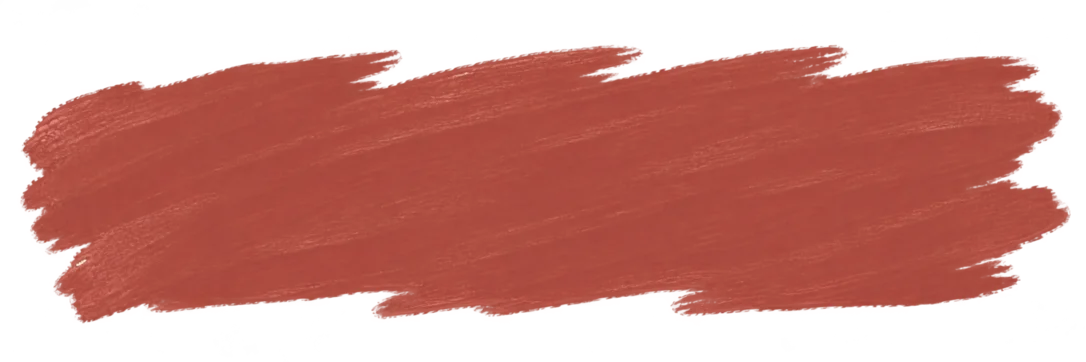
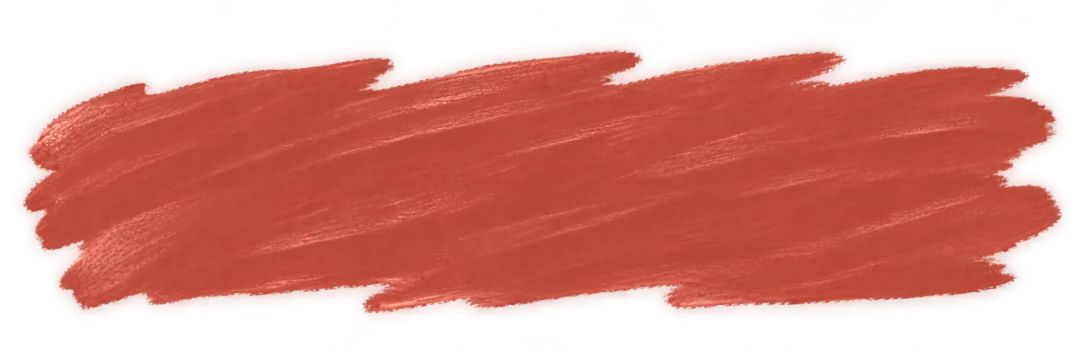
Position error message between the two nodes

diff --git a/src/components/puzzles/eulerianPath.tsx b/src/components/puzzles/eulerianPath.tsx
@@ -1,4 +1,5 @@
 import { useMemo } from "react";
+import { Html } from "@react-three/drei";
 
 import { InstancedBranches } from "@/components/models/branch/instancedBranches";
 import { useYarnMaterials } from "@/components/models/yarnBall/materials";
@@ -12,6 +13,9 @@ import {
 } from "@/utils/puzzle";
 import { DragLine } from "./dragLine";
 import { PuzzleNode } from "./puzzleNode";
+import { REFUSAL_MESSAGES } from "@/settings/puzzleSettings";
+import { ErrorMessage } from "@/components/ui/error/error";
+import { getMidpoint } from "@/utils/graph";
 
 type Props = {
   graph: Graph;
@@ -22,6 +26,9 @@ type Props = {
 export function EulerianPath({ graph, levelIndex, isActive }: Props) {
   const yarnMaterials = useYarnMaterials();
 
+  const rejection = useGameStore((state) =>
+    state.rejection?.levelIndex === levelIndex ? state.rejection : null,
+  );
   const attempt = useGameStore(
     (state) =>
       state.solvedAttempts[levelIndex] ??
@@ -67,6 +74,19 @@ export function EulerianPath({ graph, levelIndex, isActive }: Props) {
 
       {currentNodeId !== null && (
         <DragLine startPosition={graph.nodes[currentNodeId].position} />
+      )}
+
+      {isDrawing && rejection && currentNodeId && (
+        <Html
+          className="pointer-events-none whitespace-nowrap"
+          position={getMidpoint(
+            graph.nodes[currentNodeId].position,
+            graph.nodes[rejection.nodeId].position,
+          )}
+          center
+        >
+          <ErrorMessage message={REFUSAL_MESSAGES[rejection.reason]} />
+        </Html>
       )}
     </group>
   );

diff --git a/src/components/hud/gameHud.tsx b/src/components/hud/gameHud.tsx
@@ -2,20 +2,17 @@
 
 import { useEffect } from "react";
 
-import { REFUSAL_MESSAGES } from "@/settings/puzzleSettings";
 import { useGameStore } from "@/store/gameStore";
 import { IntroTextBox } from "@/components/ui/introTextBox/introTextBox";
 import { Button } from "@/components/ui/button/button";
 import { TextBox } from "@/components/ui/textBox/textBox";
 import { levels } from "@/data/levels";
 import { PuzzleInstructions } from "@/components/ui/puzzleInstructions/puzzleInstructions";
-import { ErrorMessage } from "@/components/ui/error/error";
 
 export function GameHud() {
   const mode = useGameStore((state) => state.mode);
   const finishIntro = useGameStore((state) => state.finishIntro);
   const puzzlePhase = useGameStore((state) => state.puzzlePhase);
-  const rejection = useGameStore((state) => state.rejection);
   const cutThread = useGameStore((state) => state.cutThread);
   const isNearStation = useGameStore((state) => state.isNearStation);
   const beginApproach = useGameStore((state) => state.beginApproach);
@@ -48,10 +45,6 @@ export function GameHud() {
         )}
 
         {introBeat !== null && introBeat !== "flyIn" && <IntroTextBox />}
-
-        {puzzlePhase === "drawing" && rejection && (
-          <ErrorMessage message={REFUSAL_MESSAGES[rejection.reason]} />
-        )}
 
         {puzzlePhase === "drawing" && (
           <Button onClick={cutThread}>Reset (Esc)</Button>

diff --git a/src/utils/graph/getMidpoint.ts b/src/utils/graph/getMidpoint.ts
@@ -1,0 +1,9 @@
+import type { Vec3 } from "@/types/math";
+
+export function getMidpoint(start: Vec3, end: Vec3): Vec3 {
+  return [
+    (start[0] + end[0]) / 2,
+    (start[1] + end[1]) / 2,
+    (start[2] + end[2]) / 2,
+  ];
+}

diff --git a/src/utils/graph/index.ts b/src/utils/graph/index.ts
@@ -2,3 +2,4 @@ export * from "./getGroundedGraph";
 export * from "./getBranchInstanceMatrices";
 export * from "./getBranchSegments";
 export * from "./getEdgePlacement";
+export * from "./getMidpoint";
